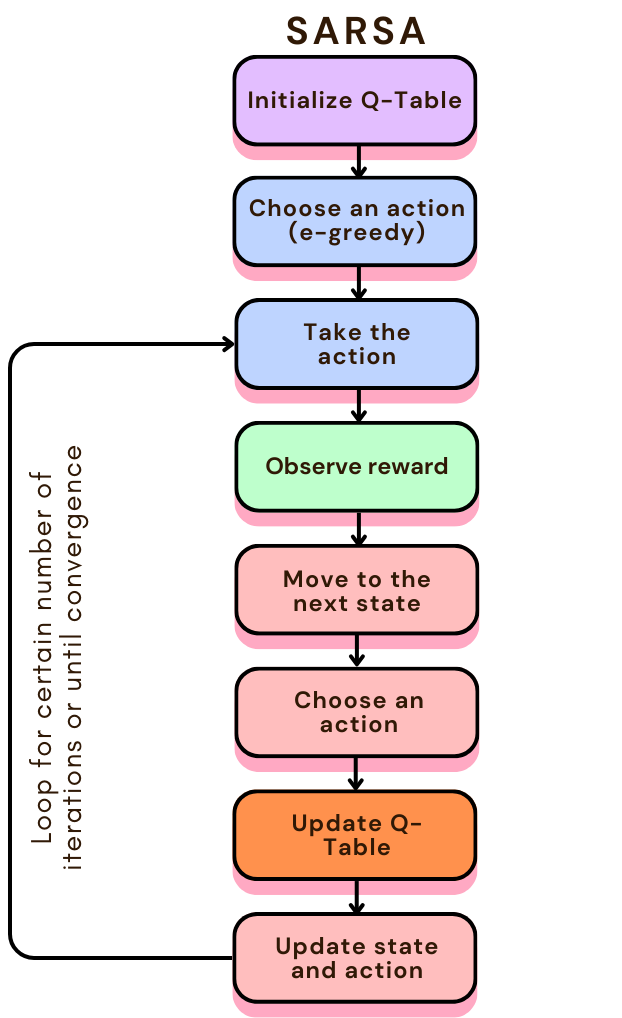
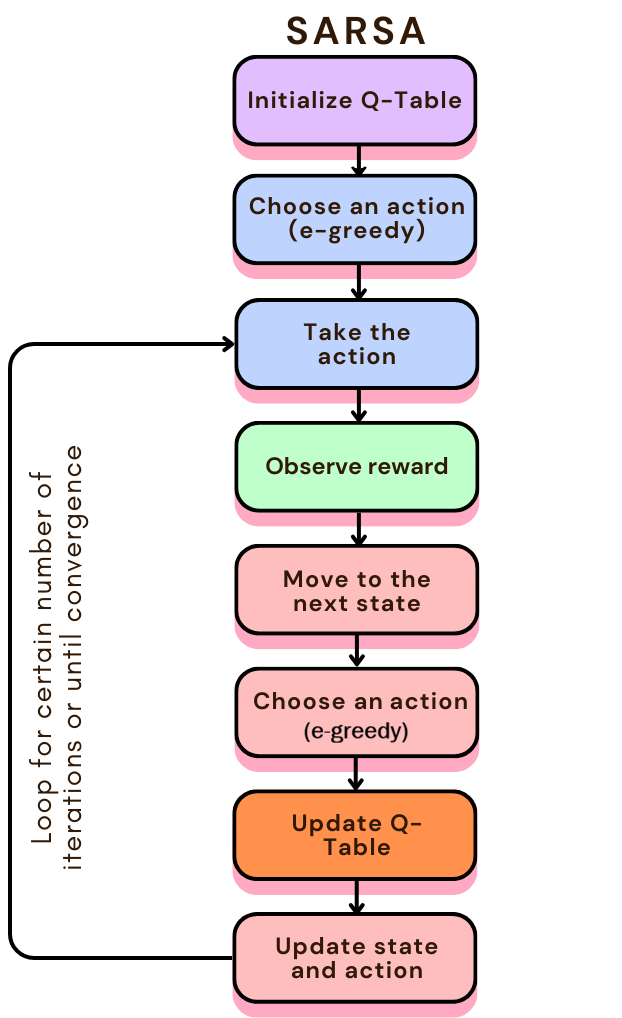
Edited Lecture 9 - edited SARSA algorithm - edited SARSA diagrams

Changed region(s): [[0.3666, 0.1523, 0.7637, 0.2741], [0.3971, 0.6699, 0.7637, 0.7308]]

diff --git a/lectures/lec9.md b/lectures/lec9.md
@@ -76,7 +76,7 @@ layout: top-title
   q(s_t, a_t) = q(s_t, a_t) + \alpha \left[ R_{t+1} + \gamma q(s_{t+1}, a_{t+1}) - q(s_t, a_t) \right]
   $$
 
-  *at state $s_t$, [take action]{.decoration-4.underline.decoration-pink-500} $a_t$ (using the $\epsilon$-greedy policy), observe reward $R_{t+1}$, move to next state $s_{t+1}$, and [choose action]{.decoration-4.underline.decoration-pink-500} $a_{t+1}$*
+  *at state $s_t$, [take action]{.decoration-4.underline.decoration-pink-500} $a_t$, observe reward $R_{t+1}$, move to next state $s_{t+1}$, and [choose action]{.decoration-4.underline.decoration-pink-500} $a_{t+1}$ (using the $\epsilon$-greedy policy)*
 
 - State, Action, Reward, State, Action (SARSA)
 
